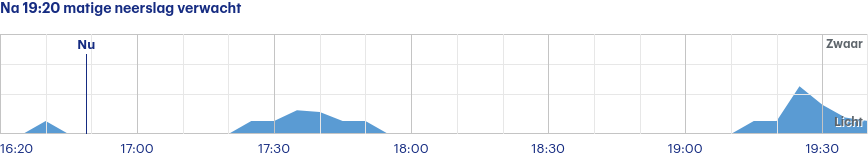
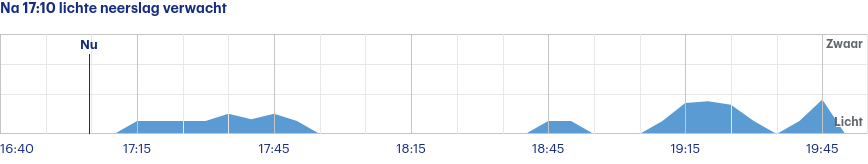
Latest scraping buienradar: Wed Aug  2 15:00:31 UTC 2023

diff --git a/scrapes/buienradar/buienradar-jette-3-uur.md b/scrapes/buienradar/buienradar-jette-3-uur.md
@@ -1,4 +1,4 @@
-Na 19:20 matige neerslag verwacht
+Na 17:10 lichte neerslag verwacht
 
 ![](buienradar-jette-3-uur.png)
 
